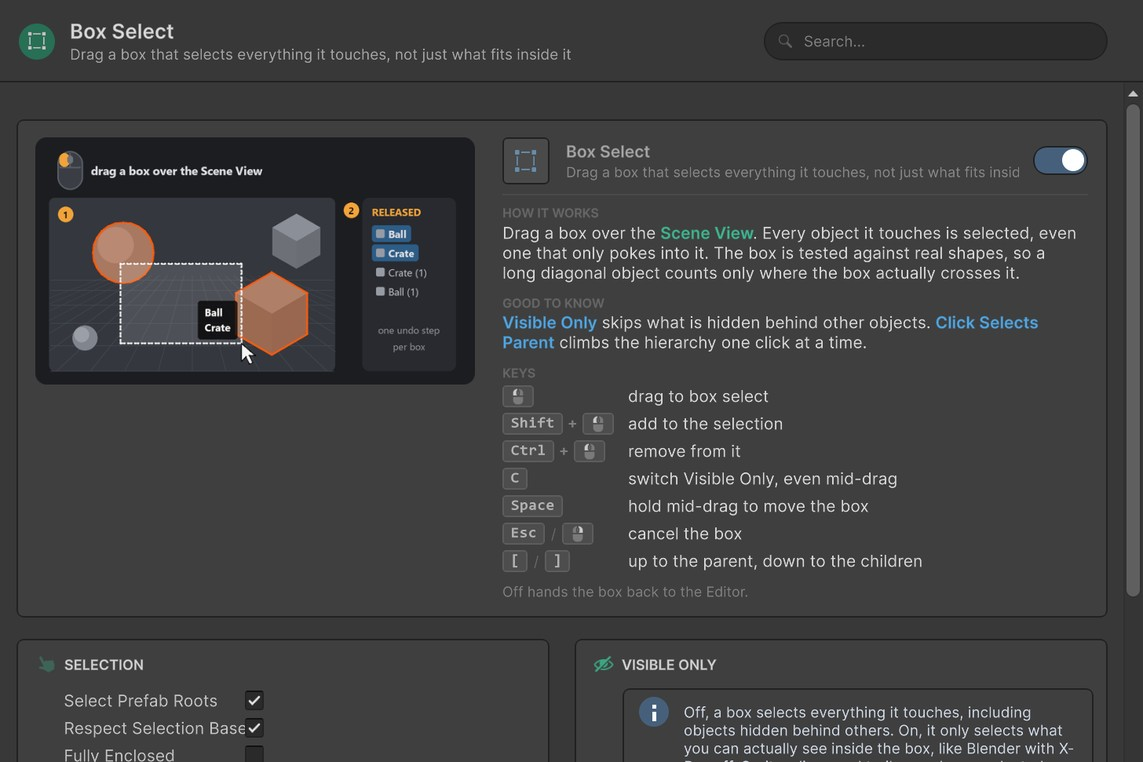
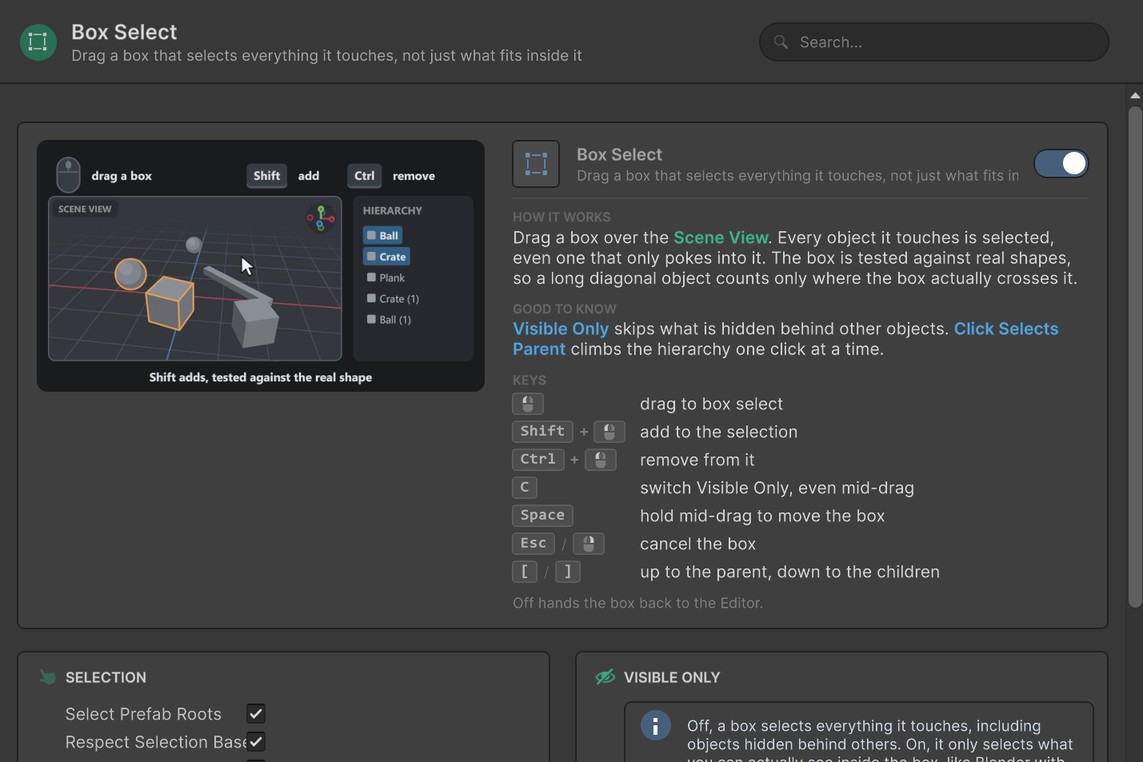
Refresh the Setup slides and the Tutorial page picture from the current settings window
- Nine Setup slides are cropped again from the raw settings-window shots on the same frame and JPEG settings as before; the Keyboard slide shows the same content and stays
- The Tutorial page picture is drawn by scripts/shots/tutorial-page.ts from the built Playground, with the First Scene at 2 of 7

diff --git a/scripts/shots/tutorial-page.ts b/scripts/shots/tutorial-page.ts
@@ -1,0 +1,69 @@
+// pnpm exec tsx scripts/shots/tutorial-page.ts [--url URL] [--out FILE] - redraws the landing's Tutorial page picture.
+import { mkdirSync } from 'node:fs';
+import { dirname, join } from 'node:path';
+import { fileURLToPath } from 'node:url';
+import { parseArgs } from 'node:util';
+import { launch, openSite, wait } from '../perf/common.ts';
+
+const root = fileURLToPath(new URL('../..', import.meta.url));
+const DEFAULT_OUT = join(root, 'src/assets/landing/tutorial-page.png');
+
+// Two of the First Scene's seven tasks done, so the third is the open one, as the picture has always shown.
+const PROGRESS = JSON.stringify({ done: ['nav.orbit', 'nav.pan'], chosen: '', started: true });
+const STORAGE_KEY = 'blendon.tutorial';
+
+// The picture's size in the landing (the img's width and height), with the card centred in it.
+const WIDTH = 678;
+const HEIGHT = 461;
+const SCALE = 2;
+// Under the split-screen breakpoint the window fills the page and its card is the viewport less 240 px, 653 here.
+const VIEWPORT_WIDTH = 893;
+
+const { values } = parseArgs({
+  args: process.argv.slice(2).filter((a, i) => !(i === 0 && a === '--')),
+  options: { url: { type: 'string' }, out: { type: 'string', default: DEFAULT_OUT } },
+});
+
+const site = await openSite(values.url);
+const browser = await launch();
+try {
+  // Tall enough to show the card without the window's scroll. Reduced motion lands the open task at once.
+  const context = await browser.newContext({
+    viewport: { width: VIEWPORT_WIDTH, height: 1400 },
+    deviceScaleFactor: SCALE,
+    reducedMotion: 'reduce',
+  });
+  const page = await context.newPage();
+  await page.addInitScript(([key, value]) => localStorage.setItem(key, value), [STORAGE_KEY, PROGRESS]);
+  await page.goto(site.url);
+  await page.locator('#try').scrollIntoViewIfNeeded();
+  await page.getByRole('tab', { name: 'Blendon', exact: true }).click();
+
+  const win = page.locator('#try .uw');
+  const card = win.locator('.tutc').first();
+  await card.waitFor();
+  await win.locator('.tutr.cur .tutpic img').waitFor();
+  await page.waitForFunction(
+    "[...document.querySelectorAll('#try .uw img')].every((img) => img.complete && img.naturalWidth > 0)",
+  );
+  // Lets the open task's picture settle after it has loaded.
+  await wait(500);
+
+  // The neighbouring cards would show in the margin around this one.
+  await page.evaluate(`(() => {
+    const card = document.querySelector('#try .uw .tutc');
+    for (const el of card.parentElement.children) if (el !== card) el.style.visibility = 'hidden';
+  })()`);
+
+  const box = await card.boundingBox();
+  if (!box) throw new Error('The First Scene card has no box');
+  const x = Math.round((box.x - (WIDTH - box.width) / 2) * SCALE) / SCALE;
+  const y = Math.round((box.y - (HEIGHT - box.height) / 2) * SCALE) / SCALE;
+  const out = values.out;
+  mkdirSync(dirname(out), { recursive: true });
+  await page.screenshot({ path: out, clip: { x, y, width: WIDTH, height: HEIGHT } });
+  console.log(`Wrote ${out} (${WIDTH * SCALE}x${HEIGHT * SCALE}, card ${box.width}x${box.height})`);
+} finally {
+  await browser.close();
+  await site.close();
+}
